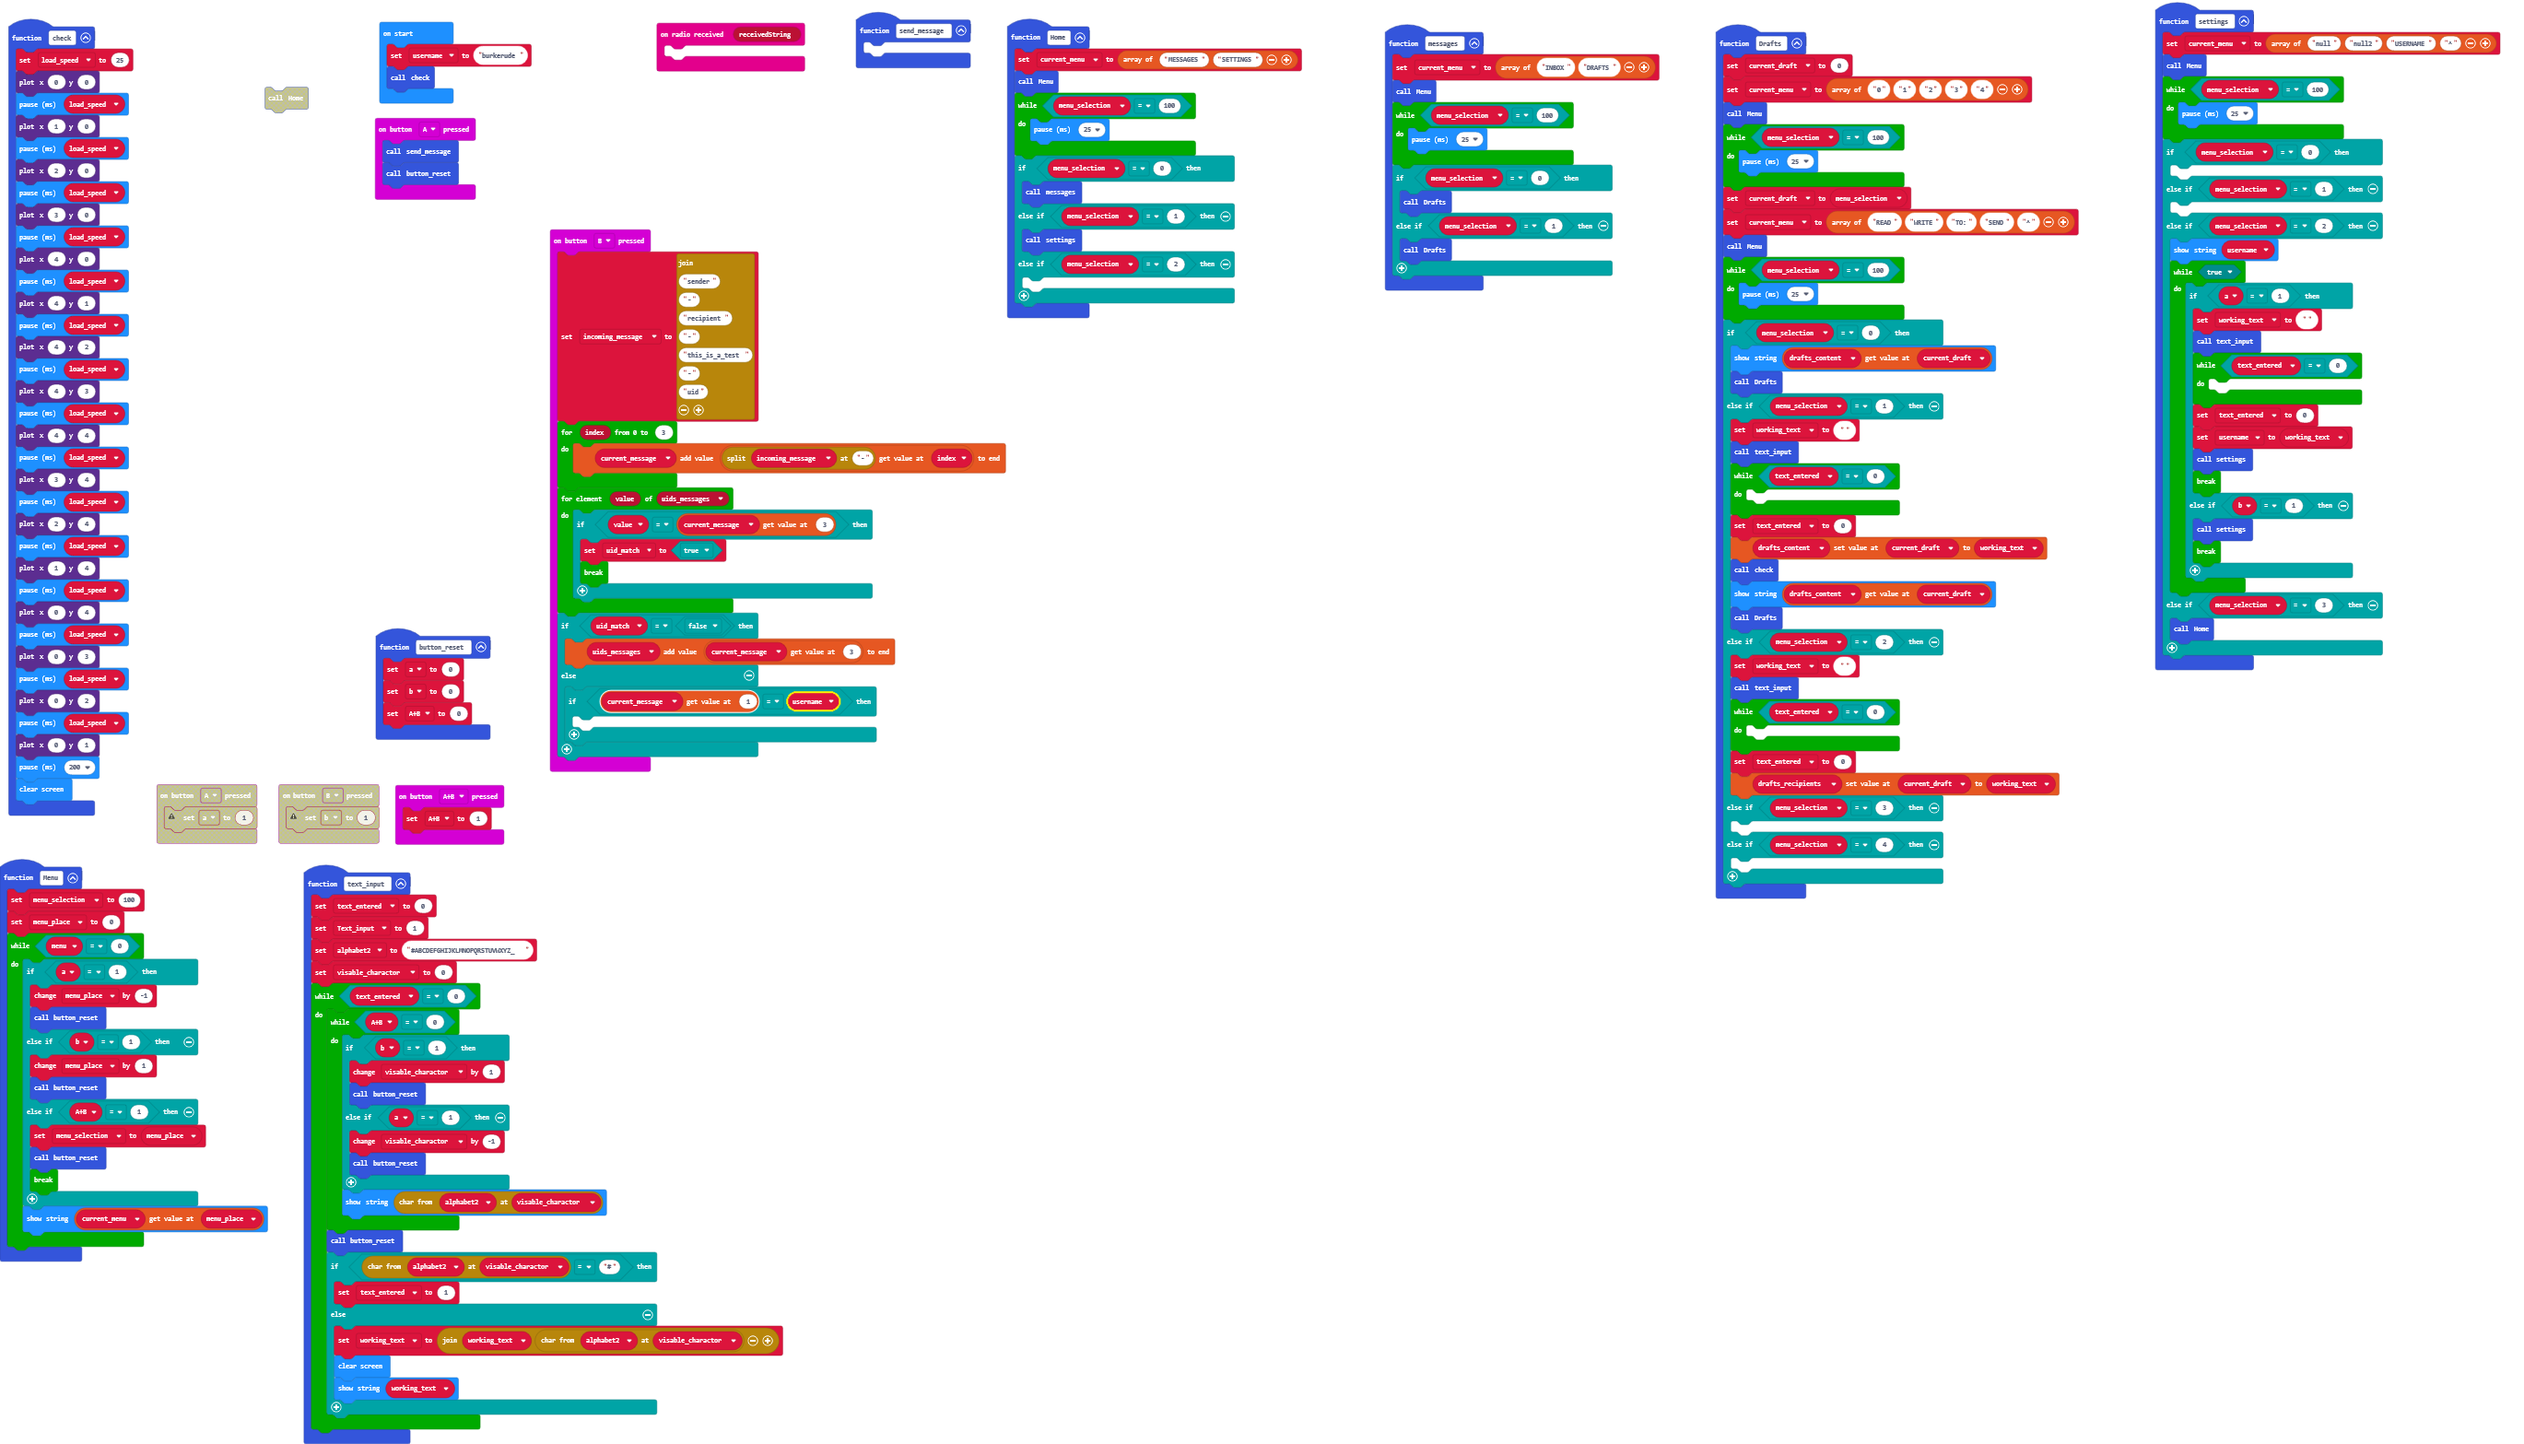
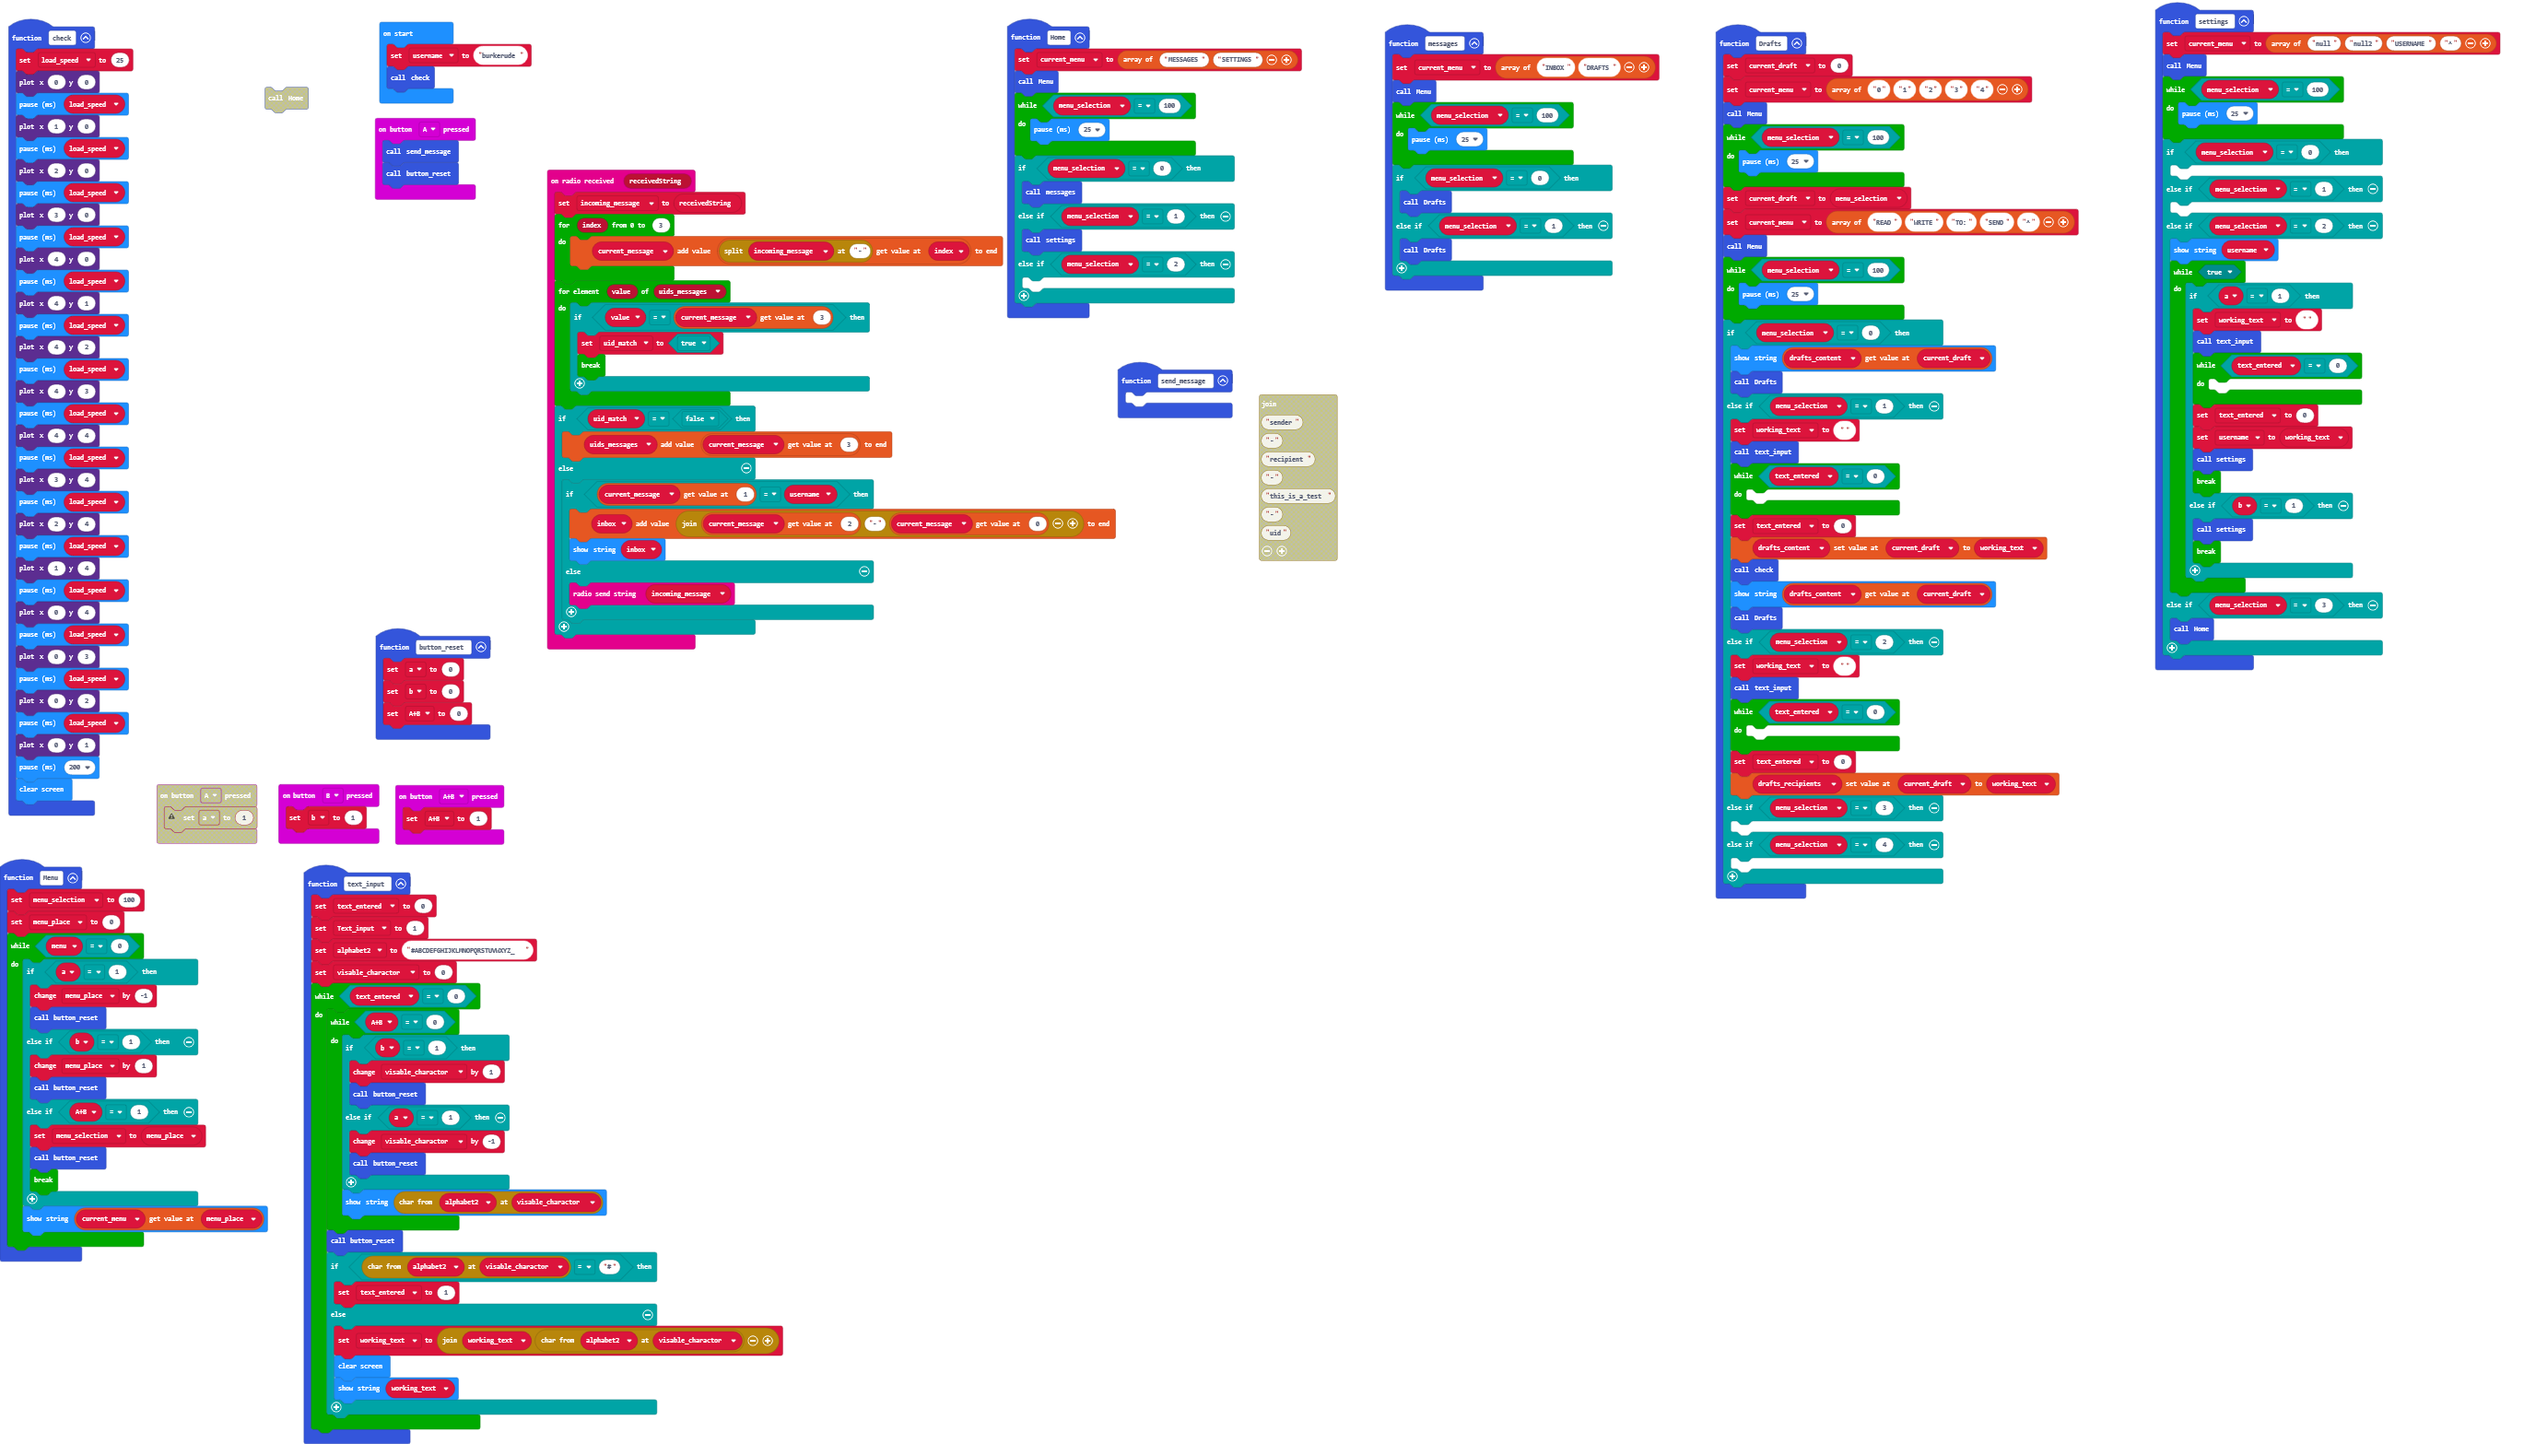
Update main.blocks, main.ts

diff --git a/main.ts b/main.ts
@@ -142,7 +142,29 @@ input.onButtonPressed(Button.AB, function () {
     AB = 1
 })
 radio.onReceivedString(function (receivedString) {
-	
+    let uids_messages: string[] = []
+    let current_message: string[] = []
+    incoming_message = receivedString
+    for (let index = 0; index <= 3; index++) {
+        current_message.push(incoming_message.split("-")[index])
+    }
+    for (let value of uids_messages) {
+        if (value == current_message[3]) {
+            uid_match = true
+            break;
+        }
+    }
+    if (uid_match == false) {
+        uids_messages.push(current_message[3])
+    } else {
+        if (current_message[1] == username) {
+            let inbox: string[] = []
+            inbox.push("" + current_message[2] + "-" + current_message[0])
+            basic.showString("" + (inbox))
+        } else {
+            radio.sendString(incoming_message)
+        }
+    }
 })
 function messages () {
     current_menu = ["INBOX", "DRAFTS"]
@@ -157,25 +179,7 @@ function messages () {
     }
 }
 input.onButtonPressed(Button.B, function () {
-    let uids_messages: string[] = []
-    let current_message: string[] = []
-    incoming_message = "sender" + "-" + "recipient" + "-" + "this_is_a_test" + "-" + "uid"
-    for (let index = 0; index <= 3; index++) {
-        current_message.push(incoming_message.split("-")[index])
-    }
-    for (let value of uids_messages) {
-        if (value == current_message[3]) {
-            uid_match = true
-            break;
-        }
-    }
-    if (uid_match == false) {
-        uids_messages.push(current_message[3])
-    } else {
-        if (current_message[1] == username) {
-        	
-        }
-    }
+    b = 1
 })
 function Menu () {
     let menu = 0
